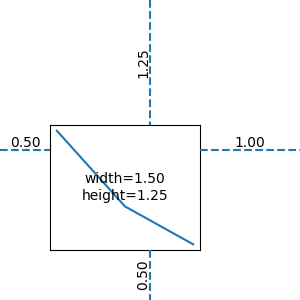
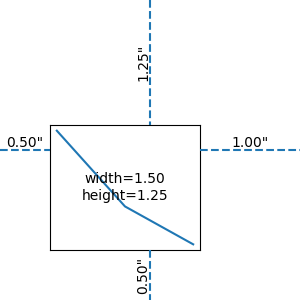
example 2 update

diff --git a/example_1_decorations.py b/example_1_decorations.py
@@ -33,7 +33,7 @@ ax.set_xticks([])
 ax.set_yticks([])
 
 # Text
-text = f'width={width:.2f}\nheight={height:.2f}'
+text = f'width={width:.2f}"\nheight={height:.2f}"'
 ax.text(
 	0.5, 
 	0.5, 
@@ -43,17 +43,19 @@ ax.text(
 	transform=ax.transAxes
 )
 
+ls = '--'
+
 # Left line
 x = [0.0, a.left()/figure_width]
 y = [0.5, 0.5]
-line = matplotlib.lines.Line2D(x, y, ls='--', transform=fig.transFigure)
+line = matplotlib.lines.Line2D(x, y, ls=ls, transform=fig.transFigure)
 fig.lines.append(line)
 
 # Left text
 ax.text(
 	numpy.average(x), 
 	numpy.average(y), 
-	f'{a.left():.2f}', 
+	f'{a.left():.2f}"', 
 	ha='center', 
 	va='bottom', 
 	transform=fig.transFigure
@@ -62,14 +64,14 @@ ax.text(
 # Right line
 x = [(a.left() + a.width())/figure_width, 1.0]
 y = [0.5, 0.5]
-line = matplotlib.lines.Line2D(x, y, ls='--', transform=fig.transFigure)
+line = matplotlib.lines.Line2D(x, y, ls=l, transform=fig.transFigure)
 fig.lines.append(line)
 
 # Right text
 ax.text(
 	numpy.average(x), 
 	numpy.average(y), 
-	f'{a.right():.2f}', 
+	f'{a.right():.2f}"', 
 	ha='center', 
 	va='bottom', 
 	transform=fig.transFigure
@@ -78,14 +80,14 @@ ax.text(
 # Top line
 x = [0.5, 0.5]
 y = [1.0, (figure_height - a.top())/figure_height]
-line = matplotlib.lines.Line2D(x, y, ls='--', transform=fig.transFigure)
+line = matplotlib.lines.Line2D(x, y, ls=ls, transform=fig.transFigure)
 fig.lines.append(line)
 
 # Top text
 ax.text(
 	numpy.average(x), 
 	numpy.average(y), 
-	f'{a.top():.2f}', 
+	f'{a.top():.2f}"', 
 	ha='right', 
 	va='center',
 	rotation=90, 
@@ -95,14 +97,14 @@ ax.text(
 # Bottom line
 x = [0.5, 0.5]
 y = [(figure_height - a.top() - a.height())/figure_height, 0.0]
-line = matplotlib.lines.Line2D(x, y, ls='--', transform=fig.transFigure)
+line = matplotlib.lines.Line2D(x, y, ls=ls, transform=fig.transFigure)
 fig.lines.append(line)
 
 # Bottom text
 ax.text(
 	numpy.average(x), 
 	numpy.average(y), 
-	f'{a.bottom():.2f}', 
+	f'{a.bottom():.2f}"', 
 	ha='right', 
 	va='center',
 	rotation=90, 

diff --git a/example_2.py b/example_2.py
@@ -1,24 +1,47 @@
 from alignment import Alignment
 import numpy
+import random
 
-numpy.random.seed(123)
-
-# Initialize the alignment (1x1 grid)
+# Initialize the alignment.
 nrows, ncols = 3, 3
 alignment = Alignment(nrows, ncols)
 
-# Configure sizes (in inches).
+# Configure axes spacing.
 for a in alignment.flatten():
 	a.set_spacing(every=0.05)
-	a.set_size(width=1.0, height=1.0)
 
-# Initialize the matplotlib Axes-object and plot data.
+# Specify figure size.
+figure_width, figure_height = 3, 3
+
+# Calculate size consumed by spacing (figure doesnt containe else).
+spacing_width, spacing_height = alignment.figure_size()
+
+# Calculate available space for each axes.
+ncols = alignment.ncols()
+nrows = alignment.nrows()
+axes_width = (figure_width - spacing_width)/ncols
+axes_height = (figure_height - spacing_height)/nrows
+
+# Configure axes sizes.
 for a in alignment.flatten():
-	ax = a.matplotlib()
-	n = 10
-	ax.plot(numpy.linspace(0, 10, num=n), numpy.random.randn(n))
-	ax.set_xticks([])
-	ax.set_xticks([])
+	a.set_size(width=axes_width, height=axes_height)
 
+# Plot some data.
+for i, a in enumerate(alignment.flatten()):
+	ax = a.matplotlib()
+	n = 100
+	x = numpy.linspace(0, n, num=n)
+	y = numpy.random.randn(n)
+	color = "#%06x" % random.randint(0, 0xFFFFFF)
+	ax.plot(
+		x, 
+		y,
+		color=color
+	)
+	ax.set_xticks([])
+	ax.set_yticks([])
+	ax.set_ylim(-nrows*ncols, nrows*ncols)
+
+# Save figure.
 fig = alignment.figure()
 fig.savefig('examples/example_2.png', dpi=100)

diff --git a/example_3.py b/example_3.py
@@ -3,9 +3,9 @@ import numpy
 
 numpy.random.seed(123)
 
-# Initialize the alignments (1x1 grid)
+# Initialize the alignments
 
-figwidth = 7
+figwidth = 5
 alignments = {
 	'a': Alignment(1, 6),
 	'b': Alignment(2, 3),	
@@ -33,11 +33,11 @@ for key, alignment in alignments.items():
 		a.set_bottom(small)
 
 # Panels a), b), c)
-for key, aspect in zip(['a', 'b', 'c'], [1/1, 4/3, 1/1]):
+for key, aspect in zip('abc', [1/1, 4/3, 1/1]):
 	alignment = alignments.get(key)
-	ncols = alignment.ncols()
+	# Alignment contains only spacing at this point.
 	space, _ = alignment.figure_size()
-	width = (figwidth - space)/ncols
+	width = (figwidth - space)/alignment.ncols()
 	for a in alignment.flatten():
 		a.set_aspect(aspect)
 		a.set_width(width)	
@@ -73,8 +73,12 @@ colors = {
 	'e': "#009688",
 	'f': "#8bc34a",
 }
-for (key, alignment), color in zip(alignments.items(), colors):
+
+for key, alignment in alignments.items():
+	
 	for i, a in enumerate(alignment.flatten()):
+		
+		# Plot data
 		ax = a.matplotlib()
 		n = 10
 		ax.plot(
@@ -82,10 +86,10 @@ for (key, alignment), color in zip(alignments.items(), colors):
 			numpy.random.randn(n),
 			color=colors.get(key),
 		)
-
 		ax.set_xticks([])
 		ax.set_yticks([])		
 
+		# Annotation
 		if i == 0:
 			ax.text(
 				0.0, 

diff --git a/example_1.py b/example_1.py
@@ -1,22 +1,32 @@
 from alignment import Alignment
 
-# Initialize the alignment (1x1 grid)
+# Initialize the alignment.
 nrows, ncols = 1, 1
 alignment = Alignment(nrows, ncols)
 
-# Configure spacing (in inches).
-a = alignment[0][0] # Custom Axes-object, we only have one.
-a.set_spacing(left=0.5, right=1.0, top=1.25, bottom=0.5)
+# Configure axes spacing.
+for a in alignment.flatten():
+	a.set_spacing(
+		left=0.5, 
+		right=1.0, 
+		top=1.25, 
+		bottom=0.5
+	)
 
-# Configure axis size (in inches, calculated from final figure size).
-figure_width, figure_height = 3.0, 3.0
-width = figure_width - a.spacing_width() 	# = 1.5
-height = figure_height - a.spacing_height()	# = 1.25
-a.set_size(width=width, height=height)
+# Configure axes size.
+for a in alignment.flatten():
+	a.set_size(
+		width=1.5, 
+		height=1.25
+	)
 
-# Initialize the matplotlib Axes-object and plot data.
-ax = a.matplotlib()
-ax.plot([1, 2, 3], [0.5, 0.25, 0.125])
+# Plot some data.
+for a in alignment.flatten():
+	ax = a.matplotlib()
+	ax.plot(
+		[1, 2, 3], 
+		[0.5, 0.25, 0.125]
+	)
 
 # Save the figure.
 fig = alignment.figure()
